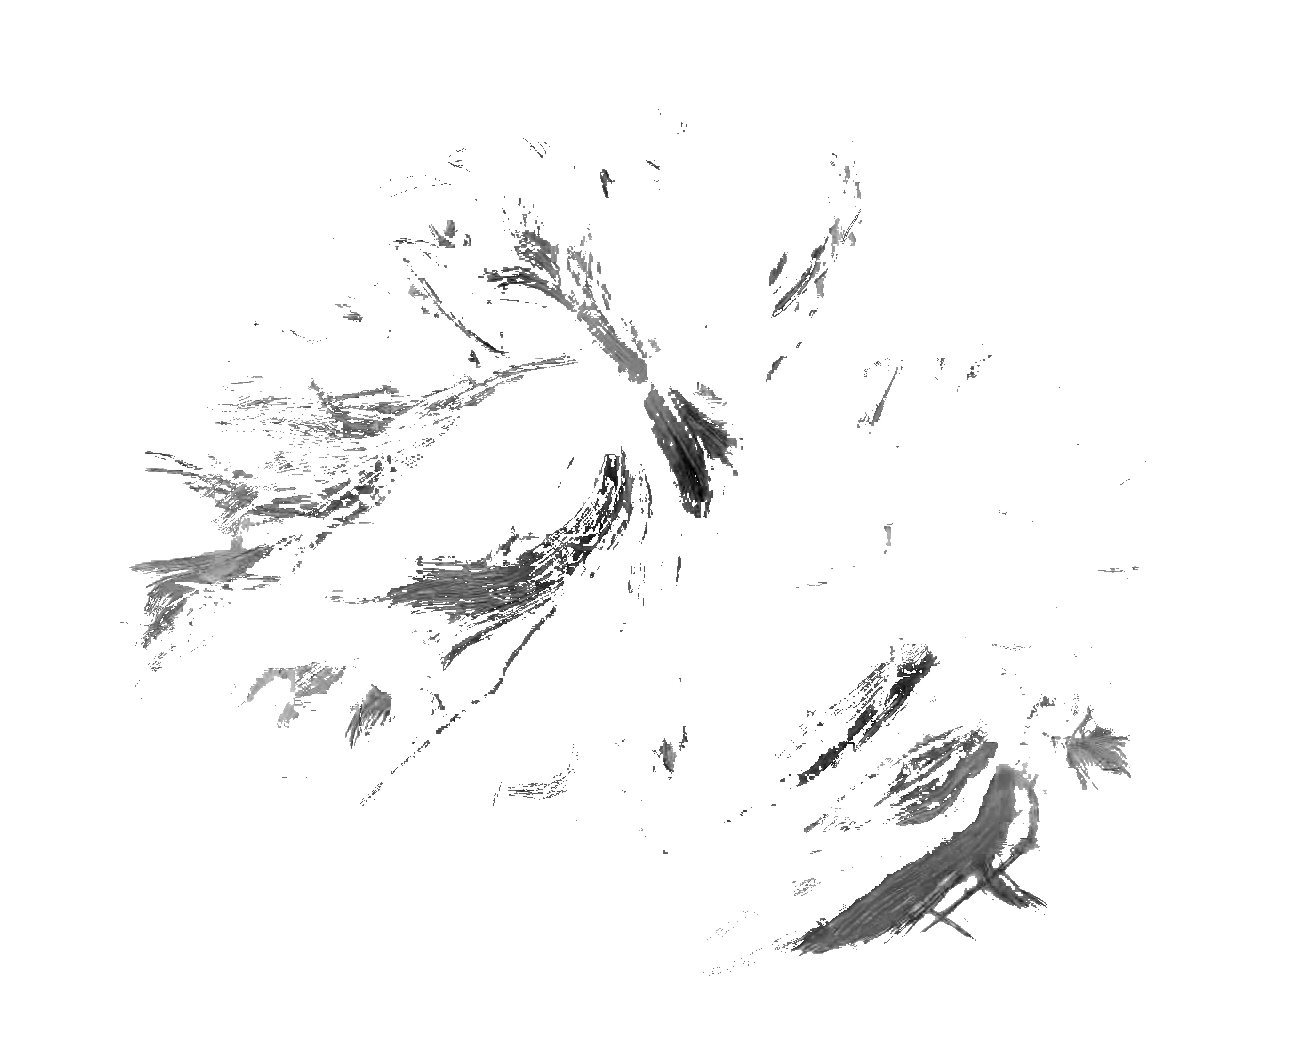
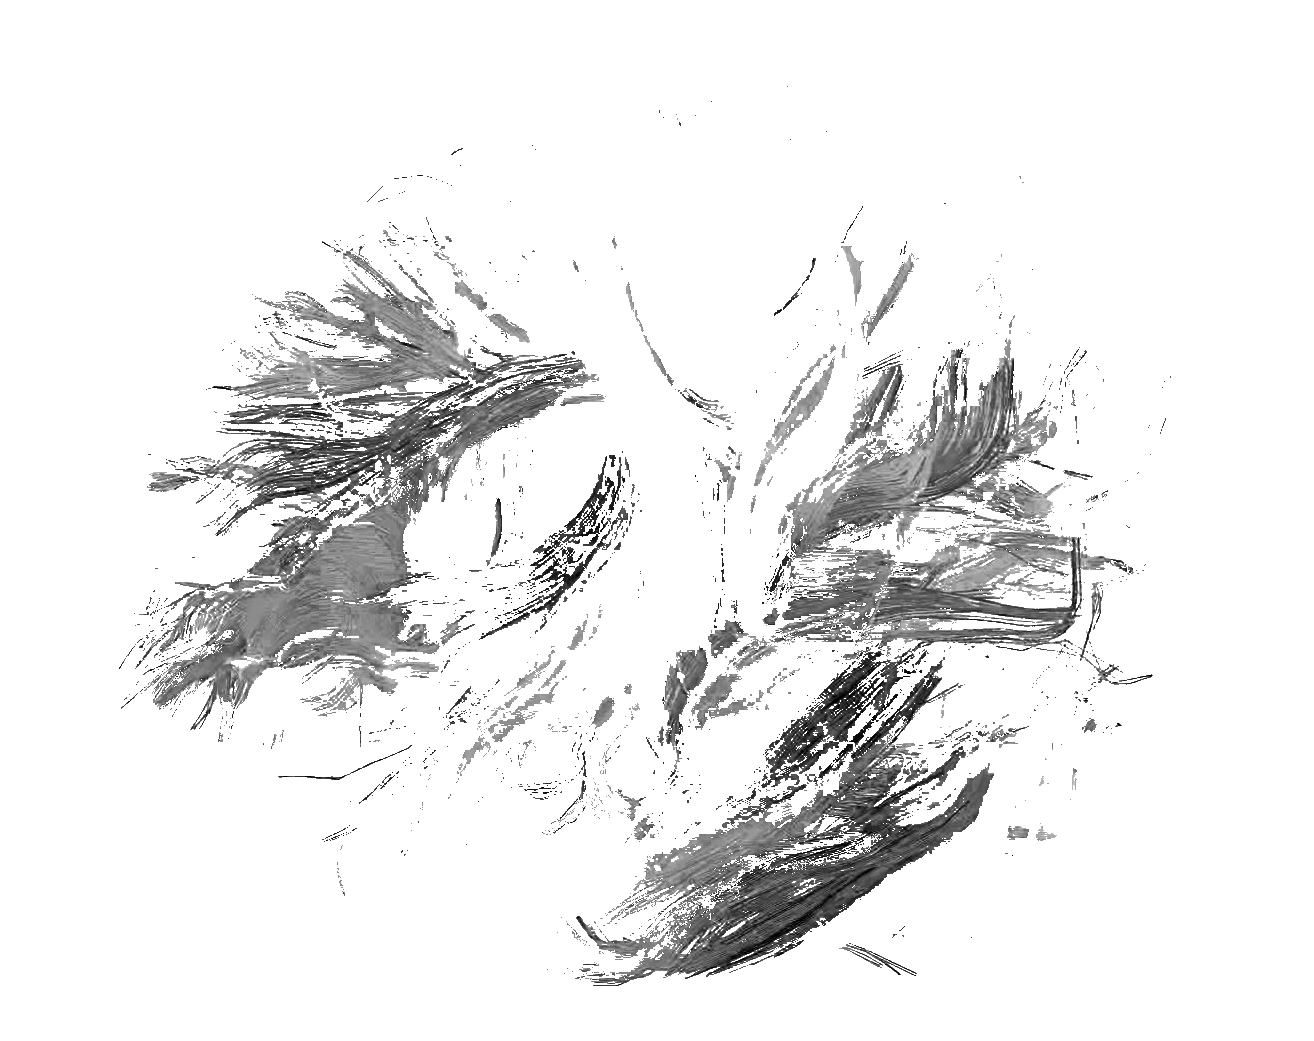
finalizes art on home page

diff --git a/_site/css/main.css b/_site/css/main.css
@@ -1,1 +1,1 @@
-/*! normalize.css v7.0.0 | MIT License | github.com/necolas/normalize.css */html{line-height:1.15;-ms-text-size-adjust:100%;-webkit-text-size-adjust:100%}body{margin:0}article,aside,footer,header,nav,section{display:block}h1{font-size:2em;margin:0.67em 0}figcaption,figure,main{display:block}figure{margin:1em 40px}hr{box-sizing:content-box;height:0;overflow:visible}pre{font-family:monospace, monospace;font-size:1em}a{background-color:transparent;-webkit-text-decoration-skip:objects}abbr[title]{border-bottom:none;text-decoration:underline;text-decoration:underline dotted}b,strong{font-weight:inherit}b,strong{font-weight:bolder}code,kbd,samp{font-family:monospace, monospace;font-size:1em}dfn{font-style:italic}mark{background-color:#ff0;color:#000}small{font-size:80%}sub,sup{font-size:75%;line-height:0;position:relative;vertical-align:baseline}sub{bottom:-0.25em}sup{top:-0.5em}audio,video{display:inline-block}audio:not([controls]){display:none;height:0}img{border-style:none}svg:not(:root){overflow:hidden}button,input,optgroup,select,textarea{font-family:sans-serif;font-size:100%;line-height:1.15;margin:0}button,input{overflow:visible}button,select{text-transform:none}button,html [type="button"],[type="reset"],[type="submit"]{-webkit-appearance:button}button::-moz-focus-inner,[type="button"]::-moz-focus-inner,[type="reset"]::-moz-focus-inner,[type="submit"]::-moz-focus-inner{border-style:none;padding:0}button:-moz-focusring,[type="button"]:-moz-focusring,[type="reset"]:-moz-focusring,[type="submit"]:-moz-focusring{outline:1px dotted ButtonText}fieldset{padding:0.35em 0.75em 0.625em}legend{box-sizing:border-box;color:inherit;display:table;max-width:100%;padding:0;white-space:normal}progress{display:inline-block;vertical-align:baseline}textarea{overflow:auto}[type="checkbox"],[type="radio"]{box-sizing:border-box;padding:0}[type="number"]::-webkit-inner-spin-button,[type="number"]::-webkit-outer-spin-button{height:auto}[type="search"]{-webkit-appearance:textfield;outline-offset:-2px}[type="search"]::-webkit-search-cancel-button,[type="search"]::-webkit-search-decoration{-webkit-appearance:none}::-webkit-file-upload-button{-webkit-appearance:button;font:inherit}details,menu{display:block}summary{display:list-item}canvas{display:inline-block}template{display:none}[hidden]{display:none}nav{position:relative;display:flex;justify-content:flex-end;z-index:300}nav .nav-content{padding:1rem 3rem 0 0;position:fixed;box-shadow:0px 0px 20px 0px rgba(0,0,0,0.05);width:100%;height:100%;text-align:right}nav .logo{font-size:25px;margin-bottom:19.2rem}nav .logo h3{font-family:"Begum Bold", serif;font-weight:normal;font-style:normal;margin-bottom:0.8rem}nav .logo h4{margin-top:0;font-family:"Caravel Regular", sans-serif;font-weight:normal;font-style:normal;font-size:17px;letter-spacing:0.03rem}nav ul{list-style:none;font-size:16px;font-family:"Begum Bold", serif;font-weight:normal;font-style:normal}nav ul a li{margin-bottom:1.2rem;color:#333;line-height:1;transition:0.2s}nav ul a li:hover,nav ul a li:active{position:relative;text-decoration:underline;transition-duration:0.2s}p{font-family:"Caravel Regular", sans-serif;font-weight:normal;font-style:normal;font-size:17px;line-height:1.45;margin-bottom:2rem}html,body{-webkit-font-smoothing:antialiased;-moz-osx-font-smoothing:grayscale;font-feature-settings:"onum" on;font-family:"Caravel Regular", sans-serif;font-weight:normal;font-style:normal;overflow-x:hidden}section{position:relative}section:before{content:'';position:absolute;width:9999px;height:100%;background:#E1E1E9;top:0;left:-3rem;z-index:-10;opacity:.02}.home-pic{padding:0 !important;width:200%;position:relative;top:30%;opacity:.2;z-index:-10}.outer-bg{width:100%;height:100vh;position:relative;background:url("../media/dti-background.png");transform-style:preserve-3d;border:3px solid red}.inner-4{position:absolute;width:100%;height:auto;top:50%;left:50%;transform:translate(-50%, -50%) translateZ(40px);border:3px solid green;opacity:.8}.inner-3{position:absolute;width:100%;height:auto;top:50%;left:50%;transform:translate(-50%, -50%) translateZ(80px);border:3px solid blue}.inner-2{position:absolute;width:100%;height:auto;top:50%;left:50%;transform:translate(-50%, -50%) translateZ(120px);border:3px solid yellow}.inner-1{position:absolute;width:100%;height:auto;top:50%;left:50%;transform:translate(-50%, -50%) translateZ(160px);border:3px solid orange}
+/*! normalize.css v7.0.0 | MIT License | github.com/necolas/normalize.css */html{line-height:1.15;-ms-text-size-adjust:100%;-webkit-text-size-adjust:100%}body{margin:0}article,aside,footer,header,nav,section{display:block}h1{font-size:2em;margin:0.67em 0}figcaption,figure,main{display:block}figure{margin:1em 40px}hr{box-sizing:content-box;height:0;overflow:visible}pre{font-family:monospace, monospace;font-size:1em}a{background-color:transparent;-webkit-text-decoration-skip:objects}abbr[title]{border-bottom:none;text-decoration:underline;text-decoration:underline dotted}b,strong{font-weight:inherit}b,strong{font-weight:bolder}code,kbd,samp{font-family:monospace, monospace;font-size:1em}dfn{font-style:italic}mark{background-color:#ff0;color:#000}small{font-size:80%}sub,sup{font-size:75%;line-height:0;position:relative;vertical-align:baseline}sub{bottom:-0.25em}sup{top:-0.5em}audio,video{display:inline-block}audio:not([controls]){display:none;height:0}img{border-style:none}svg:not(:root){overflow:hidden}button,input,optgroup,select,textarea{font-family:sans-serif;font-size:100%;line-height:1.15;margin:0}button,input{overflow:visible}button,select{text-transform:none}button,html [type="button"],[type="reset"],[type="submit"]{-webkit-appearance:button}button::-moz-focus-inner,[type="button"]::-moz-focus-inner,[type="reset"]::-moz-focus-inner,[type="submit"]::-moz-focus-inner{border-style:none;padding:0}button:-moz-focusring,[type="button"]:-moz-focusring,[type="reset"]:-moz-focusring,[type="submit"]:-moz-focusring{outline:1px dotted ButtonText}fieldset{padding:0.35em 0.75em 0.625em}legend{box-sizing:border-box;color:inherit;display:table;max-width:100%;padding:0;white-space:normal}progress{display:inline-block;vertical-align:baseline}textarea{overflow:auto}[type="checkbox"],[type="radio"]{box-sizing:border-box;padding:0}[type="number"]::-webkit-inner-spin-button,[type="number"]::-webkit-outer-spin-button{height:auto}[type="search"]{-webkit-appearance:textfield;outline-offset:-2px}[type="search"]::-webkit-search-cancel-button,[type="search"]::-webkit-search-decoration{-webkit-appearance:none}::-webkit-file-upload-button{-webkit-appearance:button;font:inherit}details,menu{display:block}summary{display:list-item}canvas{display:inline-block}template{display:none}[hidden]{display:none}nav{position:relative;display:flex;justify-content:flex-end;z-index:300}nav .nav-content{padding:1rem 3rem 0 0;position:fixed;box-shadow:0px 0px 20px 0px rgba(0,0,0,0.05);width:100%;height:100%;text-align:right}nav .logo{font-size:25px;margin-bottom:19.2rem}nav .logo h3{font-family:"Begum Bold", serif;font-weight:normal;font-style:normal;margin-bottom:0.8rem}nav .logo h4{margin-top:0;font-family:"Caravel Regular", sans-serif;font-weight:normal;font-style:normal;font-size:17px;letter-spacing:0.03rem}nav ul{list-style:none;font-size:16px;font-family:"Begum Bold", serif;font-weight:normal;font-style:normal}nav ul a li{margin-bottom:1.2rem;color:#333;line-height:1;transition:0.2s}nav ul a li:hover,nav ul a li:active{position:relative;text-decoration:underline;transition-duration:0.2s}p{font-family:"Caravel Regular", sans-serif;font-weight:normal;font-style:normal;font-size:17px;line-height:1.45;margin-bottom:2rem}#home{padding:0}#home .outer-bg{width:100%;height:100vh;position:relative;transform-style:preserve-3d}#home .inner-1,#home .inner-2,#home .inner-3,#home .inner-4{position:absolute;width:110%;height:auto;top:50%;left:50%;filter:drop-shadow(16px 16px 10px rgba(0,0,0,0.8));opacity:.5}#home .inner-1{transform:translate(-50%, -50%) translateZ(200px)}#home .inner-2{transform:translate(-50%, -50%) translateZ(150px)}#home .inner-3{transform:translate(-50%, -50%) translateZ(100px)}#home .inner-4{transform:translate(-50%, -50%) translateZ(50px);filter:none}html,body{-webkit-font-smoothing:antialiased;-moz-osx-font-smoothing:grayscale;font-feature-settings:"onum" on;font-family:"Caravel Regular", sans-serif;font-weight:normal;font-style:normal;overflow-x:hidden}section{padding:27rem 0 6rem 0rem;position:relative}section:before{content:'';position:absolute;width:9999px;height:100%;background-color:#E1E6EC;background-image:linear-gradient(-180deg, #E1E6EC 2%, #F0F4F7 96%),radial-gradient(at 50% 100%, rgba(255,255,255,0.2) 0%, rgba(0,0,0,0.5) 200%);background-blend-mode:normal, color-burn;top:0;left:-3rem;z-index:-10;opacity:.2}

diff --git a/css/main.scss b/css/main.scss
@@ -8,6 +8,8 @@
 @import "fonts";
 @import "nav";
 @import "typography";
+@import "home";
+
 
 // Mixins
 @mixin font-smoothing {
@@ -24,7 +26,7 @@ html, body{
 }
 
 section{
-  // padding:27rem 0 6rem 0rem;
+  padding:27rem 0 6rem 0rem;
   position: relative;
 }
 
@@ -33,69 +35,14 @@ section:before{
   position: absolute;
   width:9999px;
   height:100%;
-  background:#E1E1E9;
+  // background:#67BC9A;
+  background-color: #E1E6EC;
+  background-image:
+    linear-gradient(-180deg, #E1E6EC 2%, #F0F4F7 96%),
+    radial-gradient(at 50% 100%, rgba(255,255,255,0.2) 0%, rgba(0,0,0,0.5) 200%);
+  background-blend-mode: normal, color-burn;
   top:0;
   left:-3rem;
   z-index:-10;
-  opacity:.02;
-}
-
-.home-pic{
-  padding:0!important;
-  width:200%;
-  position:relative;
-  top:30%;
-  // left:-55%;
-  opacity: .2;
-  z-index:-10;
-}
-
-.outer-bg{
-  width: 100%;
-  height:100vh;
-  position: relative;
-  background: url('../media/dti-background.png');
-  transform-style: preserve-3d;
-  border:3px solid red;
-}
-
-.inner-4{
-  position:absolute;
-  width: 100%;
-  height:auto;
-  top:50%;
-  left:50%;
-  transform: translate(-50%, -50%) translateZ(40px);
-  border:3px solid green;
-  opacity:.8;
-}
-
-.inner-3{
-  position:absolute;
-  width: 100%;
-  height:auto;
-  top:50%;
-  left:50%;
-  transform: translate(-50%, -50%) translateZ(80px);
-  border:3px solid blue;
-}
-
-.inner-2{
-  position:absolute;
-  width: 100%;
-  height:auto;
-  top:50%;
-  left:50%;
-  transform: translate(-50%, -50%) translateZ(120px);
-  border:3px solid yellow;
-}
-
-.inner-1{
-  position:absolute;
-  width: 100%;
-  height:auto;
-  top:50%;
-  left:50%;
-  transform: translate(-50%, -50%) translateZ(160px);
-  border:3px solid orange;
+  opacity:.2;
 }

diff --git a/_sass/_home.scss b/_sass/_home.scss
@@ -1,0 +1,46 @@
+//Home
+
+#home{
+  padding:0;
+  
+  .outer-bg{
+    width: 100%;
+    height:100vh;
+    position: relative;
+    // background: url('../media/dti-background.png');
+    transform-style: preserve-3d;
+    // border:3px solid red;
+  }
+
+  .inner-1,
+  .inner-2,
+  .inner-3,
+  .inner-4 {
+    position:absolute;
+    width: 110%;
+    height:auto;
+    top:50%;
+    left:50%;
+    filter: drop-shadow(16px 16px 10px rgba(0,0,0,0.8));
+    opacity:.5;
+  }
+  
+  .inner-1{
+    transform: translate(-50%, -50%) translateZ(200px);
+    // border:3px solid orange;
+  }
+  .inner-2{
+    transform: translate(-50%, -50%) translateZ(150px);
+    // border:3px solid blue;
+  }
+  .inner-3{
+    transform: translate(-50%, -50%) translateZ(100px);
+    // border:3px solid yellow;
+  }
+  .inner-4{
+    transform: translate(-50%, -50%) translateZ(50px);
+    // border:3px solid green;
+    filter: none;
+  }
+
+}

diff --git a/index.html b/index.html
@@ -14,8 +14,8 @@ title: Home
         </div>
 
         <div class="col-sm-8">
-            <section>
-              <div class="outer-bg" data-tilt data-tilt-max="20" data-tilt-speed="100" data-tilt-perspective="1000">
+            <section id="home">
+              <div class="outer-bg" data-tilt data-tilt-maxTilt="20" data-tilt-speed="900" data-tilt-perspective="2000" data-tilt-transition="true" data-tilt-reset="true" data-tilt-easing="cubic-bezier(.03,.98,.52,.99)">
                 <img src="{{ site.baseurl}}/media/dti-1.png" class="inner-1">
                 <img src="{{ site.baseurl}}/media/dti-2.png" class="inner-2">
                 <img src="{{ site.baseurl}}/media/dti-3.png" class="inner-3">
@@ -29,3 +29,11 @@ title: Home
 </div>
 
 <script src="{{ site.baseurl}}/js/tilt.jquery.js"></script>
+
+<script>
+
+  $(document).ready(function() {
+  
+  });
+  
+</script>
